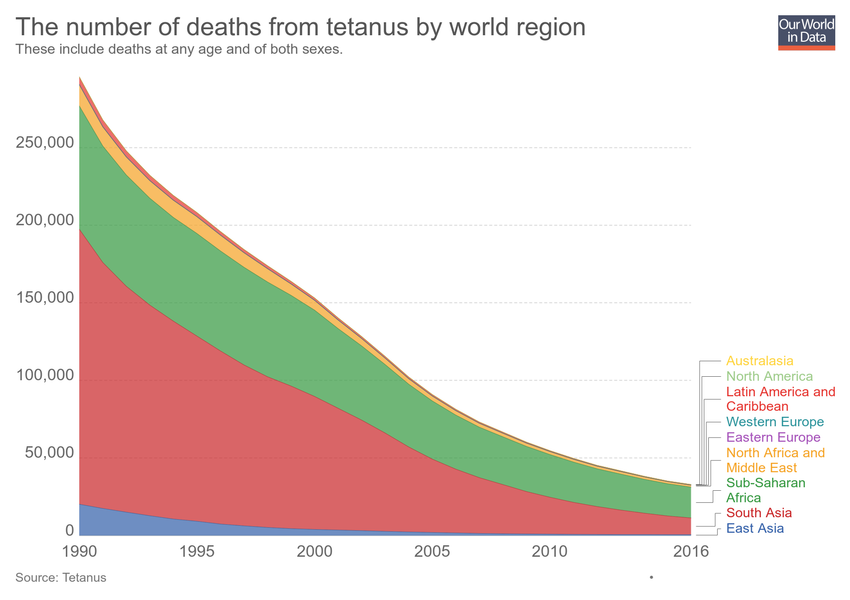
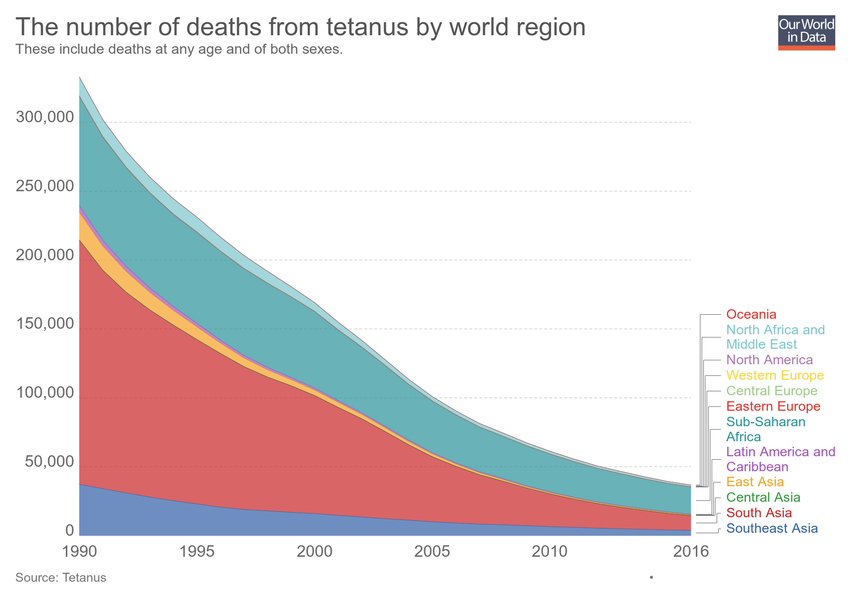
Updating chart the-number-of-deaths-from-tetanus-by-world-region

diff --git a/grapher/the-number-of-deaths-from-tetanus-by-world-region.html b/grapher/the-number-of-deaths-from-tetanus-by-world-region.html
@@ -1,4 +1,4 @@
-<!doctype html><html><head><meta name="viewport" content="width=device-width, initial-scale=1" /><title>The number of deaths from tetanus by world region - Our World in Data</title><meta name="description" content="These include deaths at any age and of both sexes." /><link rel="canonical" href="https://ourworldindata.org/grapher/the-number-of-deaths-from-tetanus-by-world-region" /><meta property="fb:app_id" content="1149943818390250" /><meta property="og:url" content="https://ourworldindata.org/grapher/the-number-of-deaths-from-tetanus-by-world-region" /><meta property="og:title" content="The number of deaths from tetanus by world region" /><meta property="og:description" content="These include deaths at any age and of both sexes." /><meta property="og:image" content="https://ourworldindata.org/grapher/exports/the-number-of-deaths-from-tetanus-by-world-region.png?v=3" /><meta property="og:image:width" content="850" /><meta property="og:image:height" content="600" /><meta property="og:site_name" content="Our World in Data" /><meta name="twitter:card" content="summary_large_image" /><meta name="twitter:site" content="@OurWorldInData" /><meta name="twitter:creator" content="@OurWorldInData" /><meta name="twitter:title" content="The number of deaths from tetanus by world region" /><meta name="twitter:description" content="These include deaths at any age and of both sexes." /><meta name="twitter:image" content="https://ourworldindata.org/grapher/exports/the-number-of-deaths-from-tetanus-by-world-region.png?v=3" /><style>
+<!doctype html><html><head><meta name="viewport" content="width=device-width, initial-scale=1" /><title>The number of deaths from tetanus by world region - Our World in Data</title><meta name="description" content="These include deaths at any age and of both sexes." /><link rel="canonical" href="https://ourworldindata.org/grapher/the-number-of-deaths-from-tetanus-by-world-region" /><meta property="fb:app_id" content="1149943818390250" /><meta property="og:url" content="https://ourworldindata.org/grapher/the-number-of-deaths-from-tetanus-by-world-region" /><meta property="og:title" content="The number of deaths from tetanus by world region" /><meta property="og:description" content="These include deaths at any age and of both sexes." /><meta property="og:image" content="https://ourworldindata.org/grapher/exports/the-number-of-deaths-from-tetanus-by-world-region.png?v=4" /><meta property="og:image:width" content="850" /><meta property="og:image:height" content="600" /><meta property="og:site_name" content="Our World in Data" /><meta name="twitter:card" content="summary_large_image" /><meta name="twitter:site" content="@OurWorldInData" /><meta name="twitter:creator" content="@OurWorldInData" /><meta name="twitter:title" content="The number of deaths from tetanus by world region" /><meta name="twitter:description" content="These include deaths at any age and of both sexes." /><meta name="twitter:image" content="https://ourworldindata.org/grapher/exports/the-number-of-deaths-from-tetanus-by-world-region.png?v=4" /><style>
         html, body {
             height: 100%;
             margin: 0;
@@ -20,8 +20,8 @@
         }
     </style><noscript><style>
                     figure { display: none !important; }
-                </style></noscript><link rel="stylesheet" href="https://ourworldindata.org/grapher/assets/commons.bundle.dcbbe53805c487d5e57617b10ac73a8a.css" /><link rel="preload" href="/grapher/data/variables/58493.json?v=3" as="fetch" crossorigin /></head><body class="singleChart"><figure data-grapher-src="/grapher/the-number-of-deaths-from-tetanus-by-world-region"></figure><noscript id="fallback"><img src="/grapher/exports/the-number-of-deaths-from-tetanus-by-world-region.svg" /><p>Interactive visualization requires JavaScript</p></noscript><script src="https://cdn.polyfill.io/v2/polyfill.min.js?features=es6,fetch"></script><script src="https://ourworldindata.org/grapher/assets/commons.bundle.db4e4065dcbf33bcd3d7.js"></script><script src="https://ourworldindata.org/grapher/assets/charts.bundle.db4e4065dcbf33bcd3d7.js"></script><script>
-        var jsonConfig = {"id":1926,"map":{"projection":"World","targetYear":2016,"variableId":58493,"baseColorScheme":"YlOrBr","colorSchemeLabels":[],"colorSchemeValues":[],"colorSchemeMinValue":0,"customNumericColors":[],"customCategoryColors":{},"customCategoryLabels":{},"customHiddenCategories":{}},"tab":"chart","slug":"the-number-of-deaths-from-tetanus-by-world-region","type":"StackedArea","title":"The number of deaths from tetanus by world region","xAxis":{"scaleType":"linear"},"yAxis":{"min":0,"scaleType":"linear"},"version":3,"subtitle":"These include deaths at any age and of both sexes.","hasMapTab":true,"stackMode":"absolute","dimensions":[{"display":{},"property":"y","variableId":58493}],"hasChartTab":true,"isPublished":true,"selectedData":[{"index":0,"entityId":435},{"index":0,"entityId":294},{"index":0,"entityId":34620},{"index":0,"entityId":476},{"index":0,"entityId":473},{"index":0,"entityId":34625},{"index":0,"entityId":289},{"index":0,"entityId":302},{"index":0,"entityId":34613}],"addCountryMode":"add-country","baseColorScheme":"owid-distinct"};
+                </style></noscript><link rel="stylesheet" href="https://ourworldindata.org/grapher/assets/commons.bundle.dcbbe53805c487d5e57617b10ac73a8a.css" /><link rel="preload" href="/grapher/data/variables/58493.json?v=4" as="fetch" crossorigin /></head><body class="singleChart"><figure data-grapher-src="/grapher/the-number-of-deaths-from-tetanus-by-world-region"></figure><noscript id="fallback"><img src="/grapher/exports/the-number-of-deaths-from-tetanus-by-world-region.svg" /><p>Interactive visualization requires JavaScript</p></noscript><script src="https://cdn.polyfill.io/v2/polyfill.min.js?features=es6,fetch"></script><script src="https://ourworldindata.org/grapher/assets/commons.bundle.db4e4065dcbf33bcd3d7.js"></script><script src="https://ourworldindata.org/grapher/assets/charts.bundle.db4e4065dcbf33bcd3d7.js"></script><script>
+        var jsonConfig = {"id":1926,"map":{"projection":"World","targetYear":2016,"variableId":58493,"baseColorScheme":"YlOrBr","colorSchemeLabels":[],"colorSchemeValues":[],"colorSchemeMinValue":0,"customNumericColors":[],"customCategoryColors":{},"customCategoryLabels":{},"customHiddenCategories":{}},"tab":"chart","slug":"the-number-of-deaths-from-tetanus-by-world-region","type":"StackedArea","title":"The number of deaths from tetanus by world region","xAxis":{"scaleType":"linear"},"yAxis":{"min":0,"scaleType":"linear"},"version":4,"subtitle":"These include deaths at any age and of both sexes.","hasMapTab":true,"stackMode":"absolute","dimensions":[{"display":{"name":"Tetanus","unit":"deaths","numDecimalPlaces":0},"property":"y","variableId":58493}],"hasChartTab":true,"isPublished":true,"selectedData":[{"index":0,"entityId":277},{"index":0,"entityId":34625},{"index":0,"entityId":294},{"index":0,"entityId":476},{"index":0,"entityId":34616},{"index":0,"entityId":473},{"index":0,"entityId":289},{"index":0,"entityId":34620},{"index":0,"entityId":34613},{"index":0,"entityId":469},{"index":0,"entityId":302},{"index":0,"entityId":34614}],"addCountryMode":"disabled","baseColorScheme":"owid-distinct"};
         var figure = document.getElementsByTagName("figure")[0];
         try {
             window.App = {};
